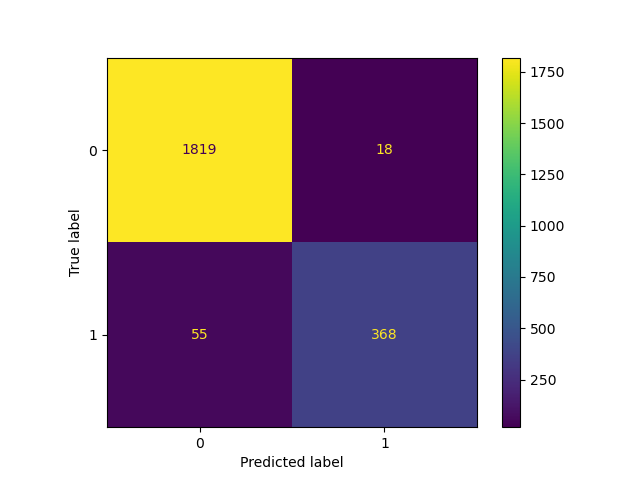
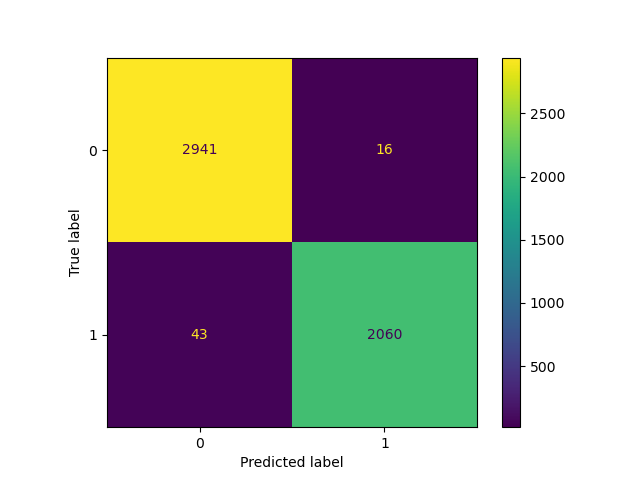
Added stage 2 data back into training for stage 1 (note: please run both training files to get the joblib files)

diff --git a/model1.py b/model1.py
@@ -13,10 +13,20 @@ import joblib
 
 data = pd.read_csv('combinned_data.csv')
 
+# added stage 2 data back into stage 1
+stage2_data = pd.read_csv('cleaning_data.csv')
+stage2_data = stage2_data.dropna(subset=['mod_text', 'spam'])
+stage2_data = stage2_data[['mod_text', 'spam']]
+
+stage2_data['mod_text'] = stage2_data['mod_text'].astype(str)
+stage2_data['spam'] = stage2_data['spam'].astype(int)
+
 # clean
 data = data.dropna(subset=['mod_text', 'spam'])
 data['mod_text'] = data['mod_text'].astype(str)
 data['spam'] = data['spam'].astype(int)
+
+data = pd.concat([data, stage2_data])
 
 X = data['mod_text']
 y = data['spam']
